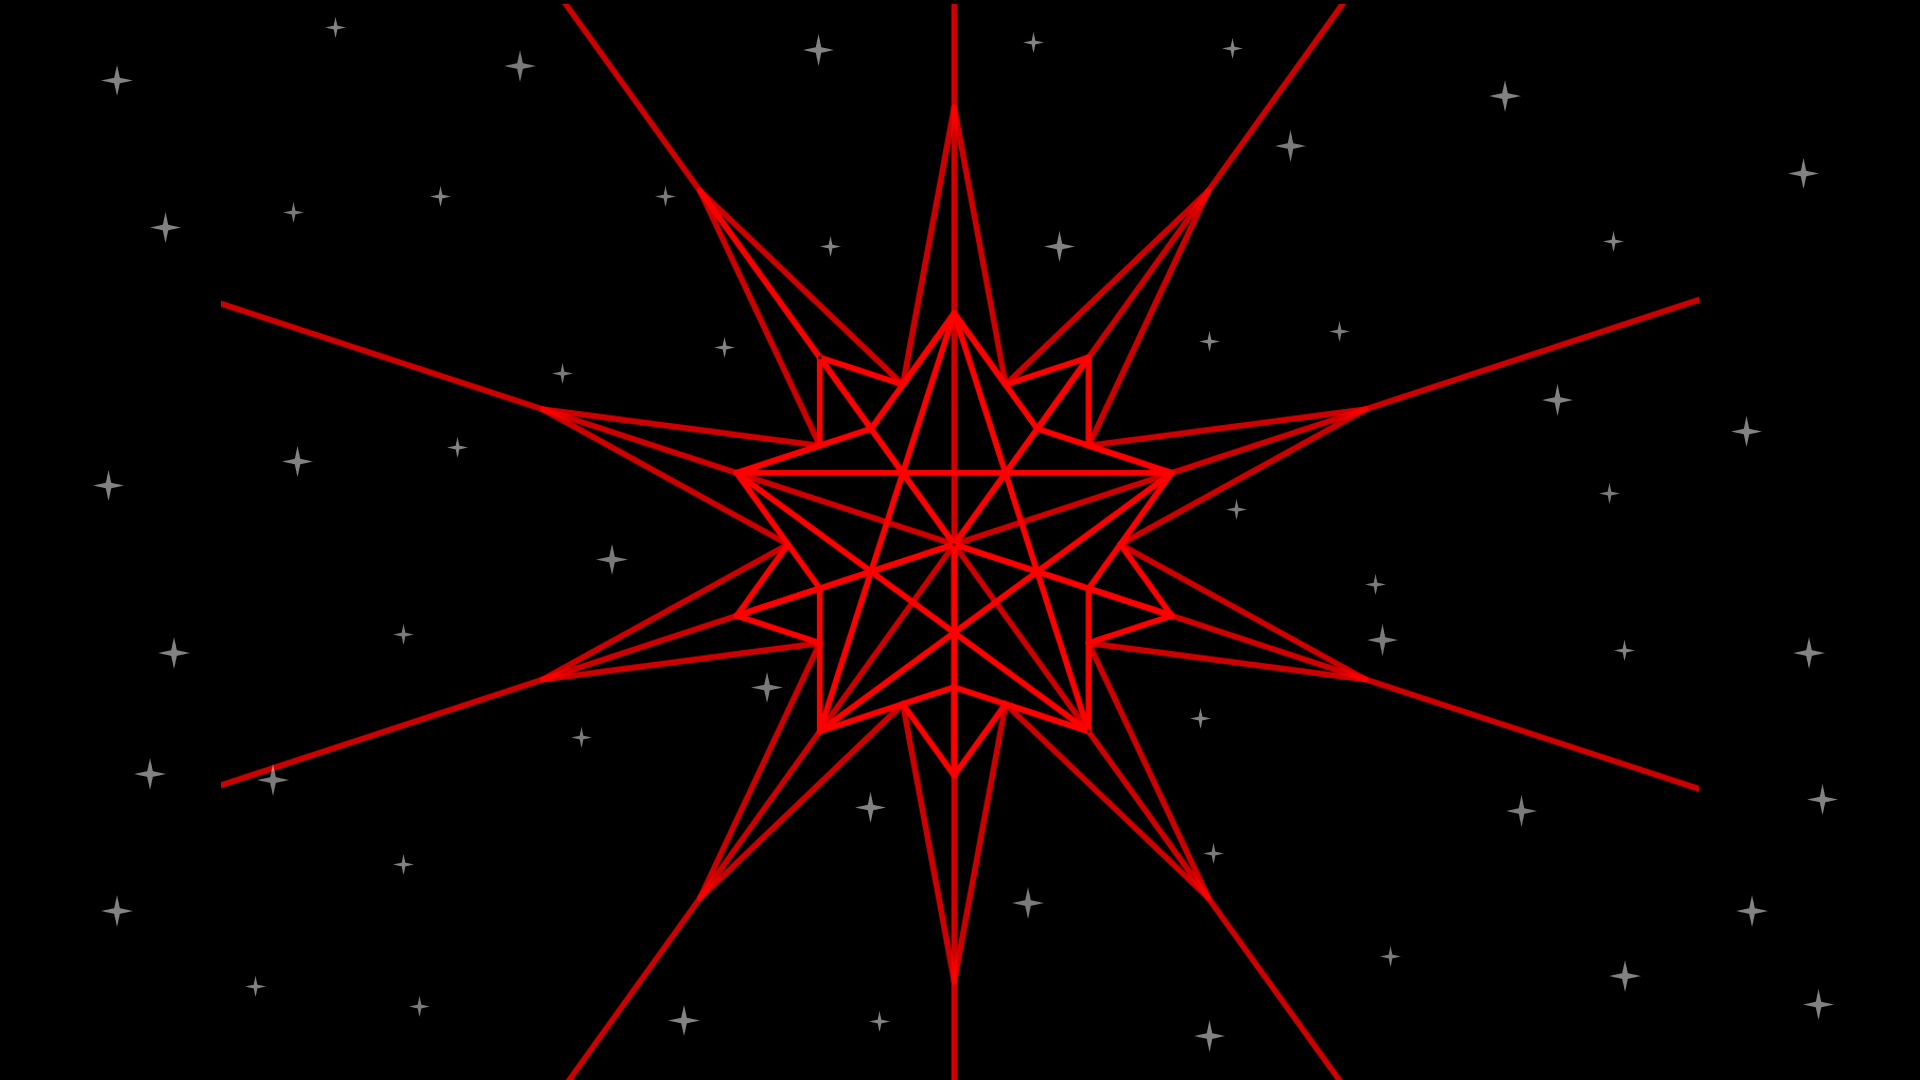
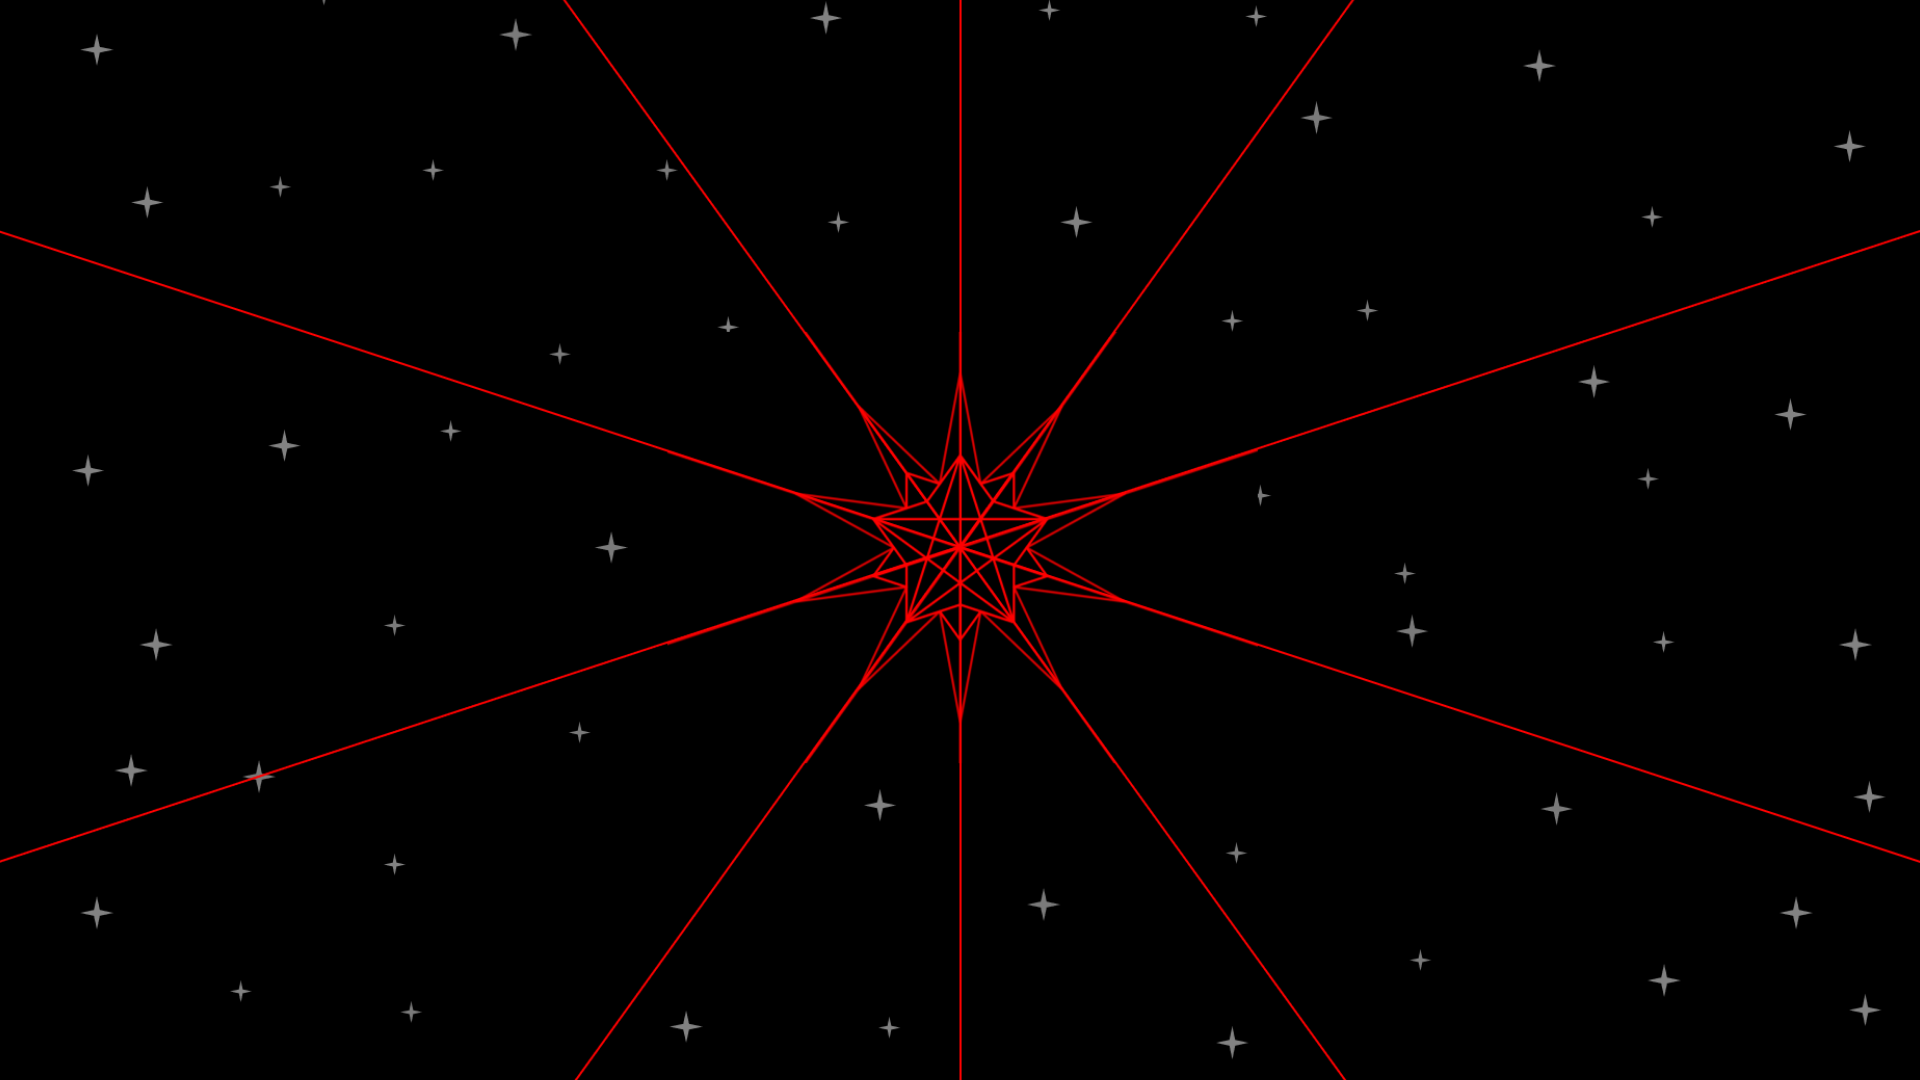
Updated positioning of field links

diff --git a/frontend/src/pages/Explore/index.js b/frontend/src/pages/Explore/index.js
@@ -6,16 +6,9 @@ import { setDarkTheme as setPageDarkTheme } from "../../store/slices/page";
 import paths from "../../constants/paths";
 
 const useStyles = makeStyles((theme) => ({
-  center: {
-    margin: "0 auto",
-    maxWidth: 966,
-    paddingLeft: theme.spacing(2),
-    paddingRight: theme.spacing(2),
-    paddingTop: 92,
-    paddingBottom: 92,
-  },
-  mockAppBarLayout: {
-    ...theme.mixins.appBar,
+  pageContainer: {
+    position: "relative",
+    margin: 0,
   },
   pageHeader: {
     height: 1080,
@@ -26,18 +19,8 @@ const useStyles = makeStyles((theme) => ({
     backgroundSize: "cover",
     display: "block",
   },
-  pageTitle: {
-    marginTop: 78,
-  },
-  subheading: {
-    margin: "68px 0",
-  },
-  subheadingParagraph: {
-    paddingBottom: 48,
-  },
-  pageContainer: {
-    position: "relative",
-    margin: 0,
+  mockAppBarLayout: {
+    ...theme.mixins.appBar,
   },
   fieldLinks: {
     position: "absolute",
@@ -45,6 +28,11 @@ const useStyles = makeStyles((theme) => ({
     width: "100vw",
     top: 0,
     left: 0,
+  },
+  biologyContainer: {
+    position: "absolute",
+    top: "calc(50% - 37px/2 - 361px)",
+    left: "calc(50% - 161px/2 + 207px)",
   },
   fieldText: {
     position: "relative",
@@ -62,55 +50,67 @@ const useStyles = makeStyles((theme) => ({
     overflow: "visible",
     transform: "translate(-50%, -50%)",
   },
-  biologyContainer: {
-    position: "absolute",
-    top: "15%",
-    left: "58%",
-  },
   socialSciencesContainer: {
     position: "absolute",
-    top: "28%",
-    left: "72%",
+    top: "calc(50% - 74px/2 - 204px)",
+    left: "calc(50% - 176px/2 + 414px)",
   },
   physicsContainer: {
     position: "absolute",
-    top: "50%",
-    left: "80%",
+    top: "calc(50% - 37px/2 + 6px)",
+    left: "calc(50% - 152px/2 + 522px)",
   },
   mathsStatsContainer: {
     position: "absolute",
-    top: "75%",
-    left: "75%",
+    top: "calc(50% - 111px/2 + 307px)",
+    left: "calc(50% - 264px/2 + 500px)",
   },
   spaceSciencesContainer: {
     position: "absolute",
-    top: "88%",
-    left: "59%",
+    top: "calc(50% - 74px/2 + 445px)",
+    left: "calc(50% - 176px/2 + 220px)",
   },
   computerScienceContainer: {
     position: "absolute",
-    top: "88%",
-    left: "41%",
+    top: "calc(50% - 74px/2 + 445px)",
+    left: "calc(50% - 200px/2 - 24px)",
   },
   engineeringTechnologyContainer: {
     position: "absolute",
-    top: "75%",
-    left: "25%",
+    top: "calc(50% - 111px/2 + 307px)",
+    left: "calc(50% - 260px/2 - 238px)",
   },
   earthSciencesContainer: {
     position: "absolute",
-    top: "50%",
-    left: "20%",
+    top: "calc(50% - 74px/2 + 24.5px)",
+    left: "calc(50% - 176px/2 - 358px)",
   },
   chemistryContainer: {
     position: "absolute",
-    top: "28%",
-    left: "28%",
+    top: "calc(50% - 37px/2 - 222.5px)",
+    left: "calc(50% - 206px/2 - 223px)",
   },
   medicineContainer: {
     position: "absolute",
-    top: "15%",
-    left: "42%",
+    top: "calc(50% - 37px/2 - 361px)",
+    left: "calc(50% - 179px/2 - 37px)",
+  },
+  center: {
+    margin: "0 auto",
+    maxWidth: 966,
+    paddingLeft: theme.spacing(2),
+    paddingRight: theme.spacing(2),
+    paddingTop: 92,
+    paddingBottom: 92,
+  },
+  pageTitle: {
+    marginTop: 78,
+  },
+  subheading: {
+    margin: "68px 0",
+  },
+  subheadingParagraph: {
+    paddingBottom: 48,
   },
 }));
 
@@ -127,7 +127,7 @@ export default () => {
 
   return (
     <>
-      <div className={classes.container}>
+      <div className={classes.pageContainer}>
         <div className={classes.pageHeader}>
           <div className={classes.mockAppBarLayout} />
           <div className={classes.fieldLinks}>
@@ -164,7 +164,7 @@ export default () => {
                 to={paths.mathematicsandstats}
                 className={classes.fieldText}
               >
-                MATHEMATICS STATISTICS
+                MATHEMATICS AND STATISTICS
               </Button>
             </div>
             <div className={classes.spaceSciencesContainer}>
@@ -228,13 +228,10 @@ export default () => {
         <Typography variant="h1" className={classes.pageTitle}>
           Welcome to the Explore Section
         </Typography>
-        <Typography variant="h2" className={classes.subheadingVerticalMargin}>
+        <Typography variant="h2" className={classes.subheading}>
           How it works:
         </Typography>
-        <Typography
-          variant="body1"
-          className={classes.subheadingTextVerticalMargin}
-        >
+        <Typography variant="body1" className={classes.subheadingParagraph}>
           Lorem ipsum dolor sit amet, consectetur adipiscing elit, sed do
           eiusmod tempor incididunt ut labore et dolore magna aliqua. Ut enim ad
           minim veniam, quis nostrud exercitation ullamco laboris nisi ut
@@ -243,16 +240,13 @@ export default () => {
           pariatur. Excepteur sint occaecat cupidatat non proident, sunt in
           culpa qui officia deserunt mollit anim id est laborum.
         </Typography>
-        <Typography variant="h2" className={classes.subheadingVerticalMargin}>
+        <Typography variant="h2" className={classes.subheading}>
           SuperNova's Featured Projects:
         </Typography>
-        <Typography variant="h2" className={classes.subheadingVerticalMargin}>
+        <Typography variant="h2" className={classes.subheading}>
           Science and the world of research:
         </Typography>
-        <Typography
-          variant="body1"
-          className={classes.subheadingTextVerticalMargin}
-        >
+        <Typography variant="body1" className={classes.subheadingParagraph}>
           Lorem ipsum dolor sit amet, consectetur adipiscing elit, sed do
           eiusmod tempor incididunt ut labore et dolore magna aliqua. Ut enim ad
           minim veniam, quis nostrud exercitation ullamco laboris nisi ut
@@ -261,7 +255,7 @@ export default () => {
           pariatur. Excepteur sint occaecat cupidatat non proident, sunt in
           culpa qui officia deserunt mollit anim id est laborum.
         </Typography>
-        <Typography variant="h2" className={classes.subheadingVerticalMargin}>
+        <Typography variant="h2" className={classes.subheading}>
           Educational Resources:
         </Typography>
       </div>
